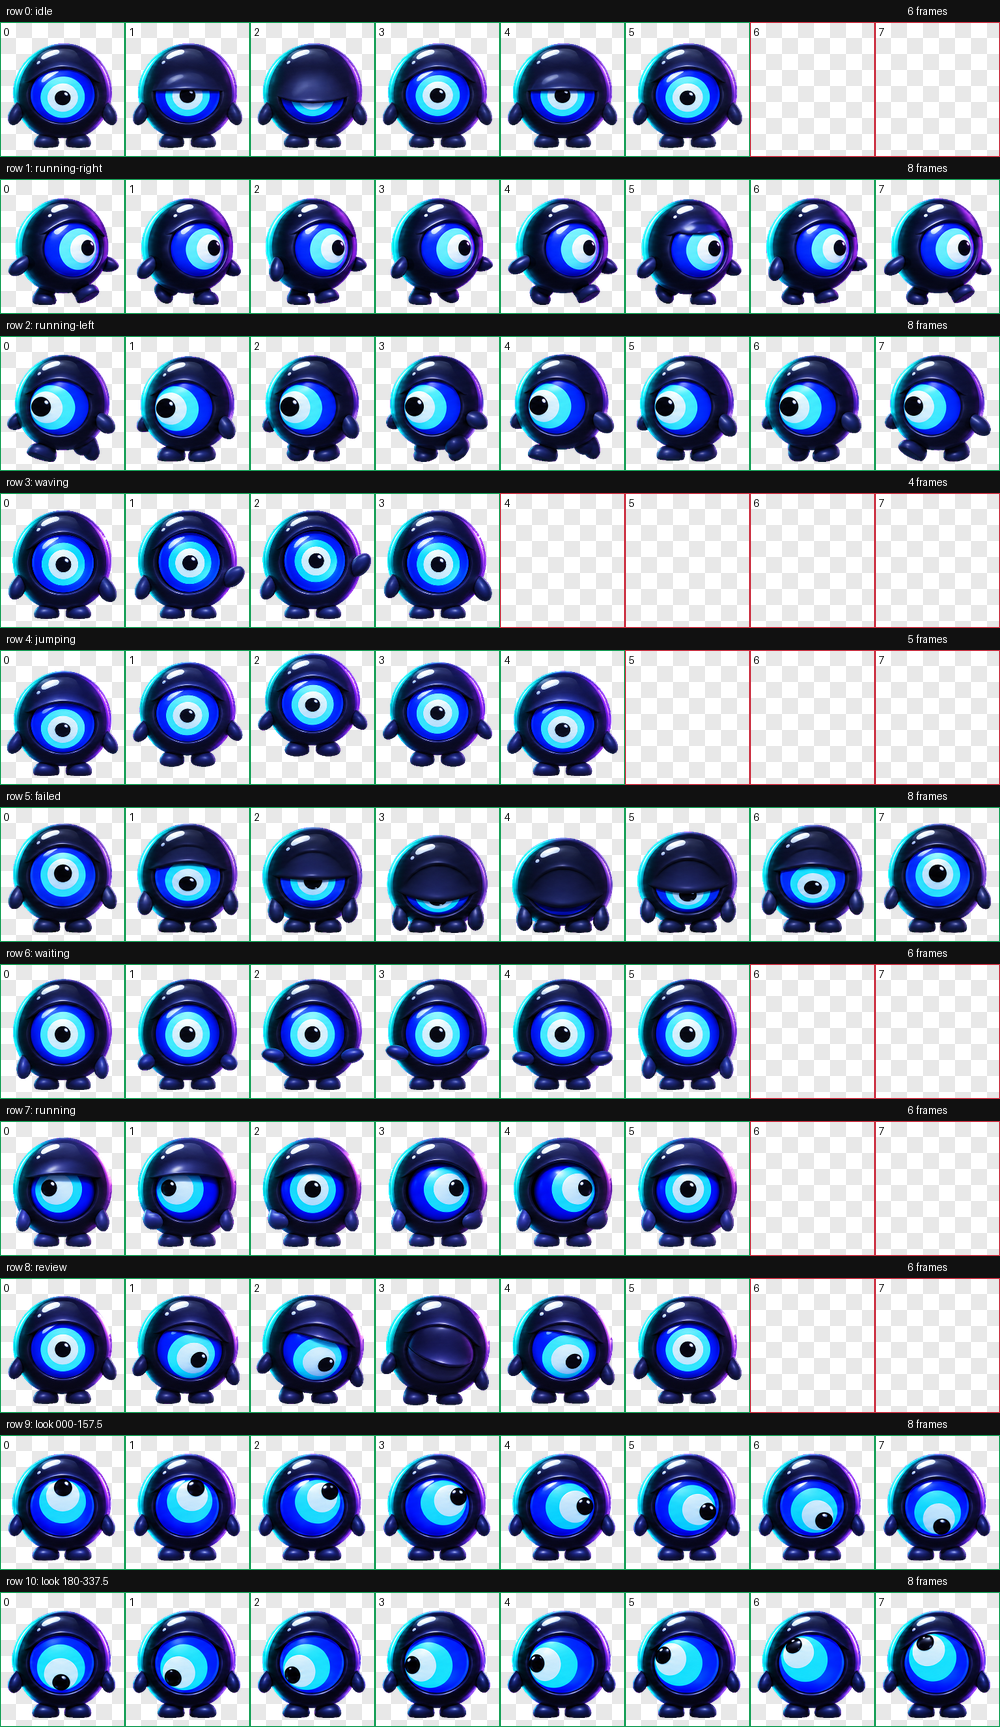
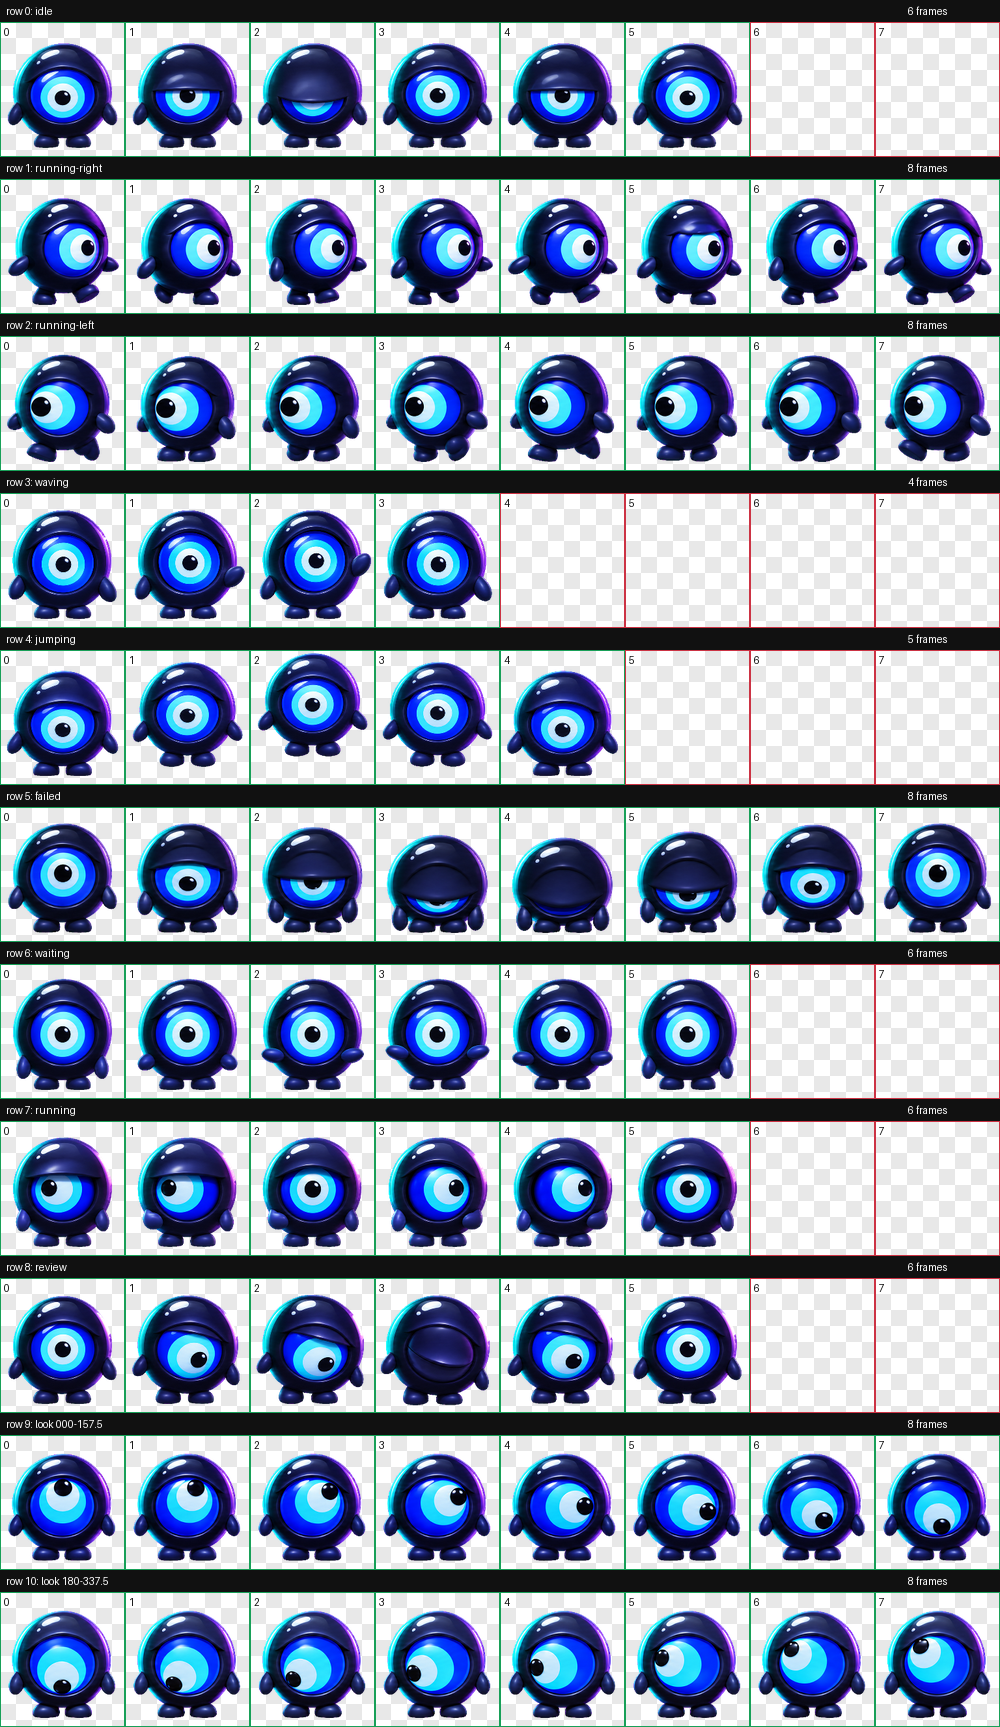
Clarify the 247.5-degree down-left gaze

Changed region(s): [[0.0, 0.9207, 0.992, 1.0]]

diff --git a/README.md b/README.md
@@ -43,11 +43,11 @@ The shipping sheet is a transparent 1536 × 2288 PNG with 192 × 208 cells. It h
 
 The Pets plugin validates the exact encoded PNG before its upload-session tool transfers it. Pass that session to update_pet using the existing Nazar pet ID, then verify it and the active selection. See pipeline/skills/update-pet/SKILL.md and pipeline/references/upload-session.md for the full sequence.
 
[2 lines of base64/hex data omitted]
 
 ## Rendering update
 
 - Uses exterior-connected soft chroma recovery and single-pass body registration. The new jump keeps Nazar's body size, lifts 30 px, and lands on the idle baseline.
-- Registers both gaze rows at subpixel precision. The continuity check reports zero warnings. The 247.5-degree down-left gaze remains subtle in blind review.
+- Registers both gaze rows at subpixel precision. The 247.5-degree pose reads down-left on both axes in blind review. Two small silhouette differences at the gaze row boundaries are documented in the continuity report.
 - Generates dark and light GIFs, transparent animated WebP, per-state loops, and a 2× inspection sheet. The MP4 uses RGB frames directly.
 - Keeps visual review tied to the reviewed gaze pixels. Pets preflight reports come from the Pets validator for the exact encoded file.

diff --git a/prompts/rows/look-row-10.md b/prompts/rows/look-row-10.md
@@ -11,7 +11,7 @@ DIRECTION TARGETS — use these to shape the coherent row, not as pixel-level la
 1. `180`: vertical DOWN; no horizontal requirement.
 2. `202.5`: horizontal SCREEN-LEFT and vertical DOWN.
 3. `225`: horizontal SCREEN-LEFT and vertical DOWN.
-4. `247.5`: horizontal SCREEN-LEFT and vertical DOWN.
+4. `247.5`: horizontal SCREEN-LEFT and vertical DOWN. Keep the pupil distinctly below the 270-degree pose while placing it a little higher than in the 225-degree pose.
 5. `270`: horizontal SCREEN-LEFT; no vertical requirement.
 6. `292.5`: horizontal SCREEN-LEFT and vertical UP.
 7. `315`: horizontal SCREEN-LEFT and vertical UP.
